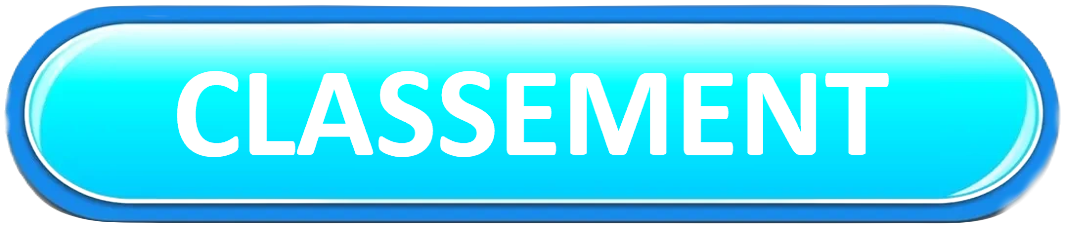
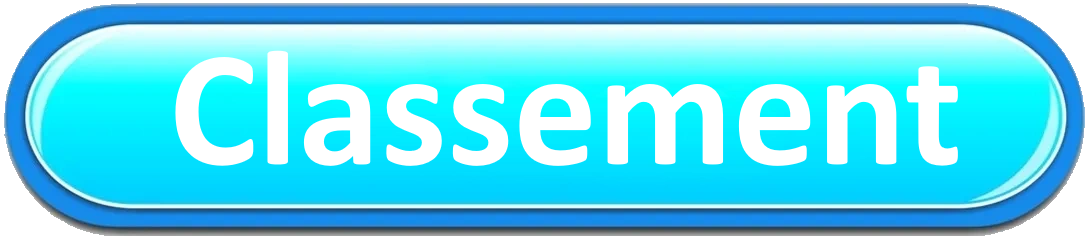
update buttons

diff --git a/ScoreBoard.py b/ScoreBoard.py
@@ -62,7 +62,7 @@ class ScoreBoard(object):
 
         #bouton play
         pygame.Rect((GetSystemMetrics(0)//2-250, GetSystemMetrics(1)//1.5, 500, 50))
-        self.imgplay = self.screen.blit(pygame.transform.scale(pygame.image.load(os.path.join(os.path.dirname(__file__), "src\\images\\play.webp")), (500, 100)), (GetSystemMetrics(0)//2-250, GetSystemMetrics(1)//1.3))
+        self.imgplay = self.screen.blit(pygame.transform.scale(pygame.image.load(os.path.join(os.path.dirname(__file__), "src\\images\\play.png")), (500, 100)), (GetSystemMetrics(0)//2-250, GetSystemMetrics(1)//1.3))
 
         #bouton classement
         pygame.Rect((GetSystemMetrics(0)//2-250, GetSystemMetrics(1), 500, 50))
@@ -120,7 +120,7 @@ class ScoreBoard(object):
 
     def draw(self):
         self.screen.blit(pygame.transform.scale(pygame.image.load(os.path.join(os.path.dirname(__file__), "src\\images\\welcome.png")) ,(GetSystemMetrics(0), GetSystemMetrics(1))), [0, 0])
-        self.screen.blit(pygame.transform.scale(pygame.image.load(os.path.join(os.path.dirname(__file__), "src\\images\\play.webp")), (500, 100)), (GetSystemMetrics(0)//2-250, GetSystemMetrics(1)//1.35))
+        self.screen.blit(pygame.transform.scale(pygame.image.load(os.path.join(os.path.dirname(__file__), "src\\images\\play.png")), (500, 100)), (GetSystemMetrics(0)//2-250, GetSystemMetrics(1)//1.35))
         self.imgclassment = self.screen.blit(pygame.transform.scale(pygame.image.load(os.path.join(os.path.dirname(__file__), "src\\images\\classement.png")), (500, 100)), (GetSystemMetrics(0)//2-250, GetSystemMetrics(1)//1.17))
         pygame.draw.rect(self.screen, self.colorinput, self.rectinput, 0, 12)
         self.screen.blit(self.txt_surface, (self.rectinput.x+5, self.rectinput.y+5))

diff --git a/Game.py b/Game.py
@@ -11,9 +11,8 @@ class Game(object):
         """
         Permet l'initialisation du jeu.
         """
-        self.scoreboard = ScoreBoard()
+        self.scoreboard = ScoreBoard() #initialisation du scoreboard
         self.gui = GUIdemineur(long, 32) #créer une instance de guiDemineur_V2
-        self.gui.stopTime() 
         self.grid = Grille(long, 99) #créer une instance de Grille
         self.flagputted = 0 #nombre de drapeaux placés
         self.gui.refresh(self.grid.grid, self.grid.nbBomb - self.flagputted, 0) #refresh la grille
